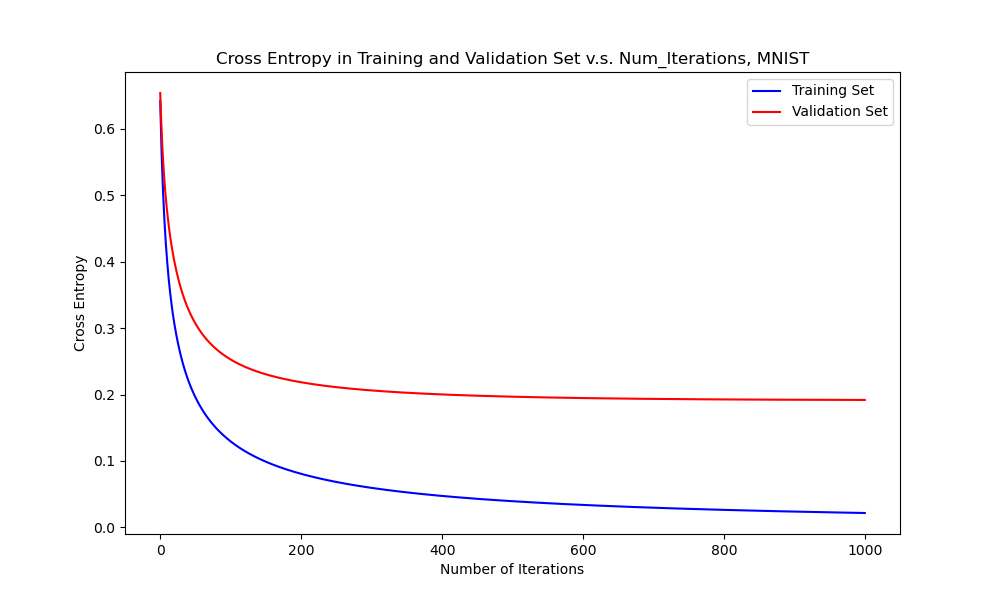
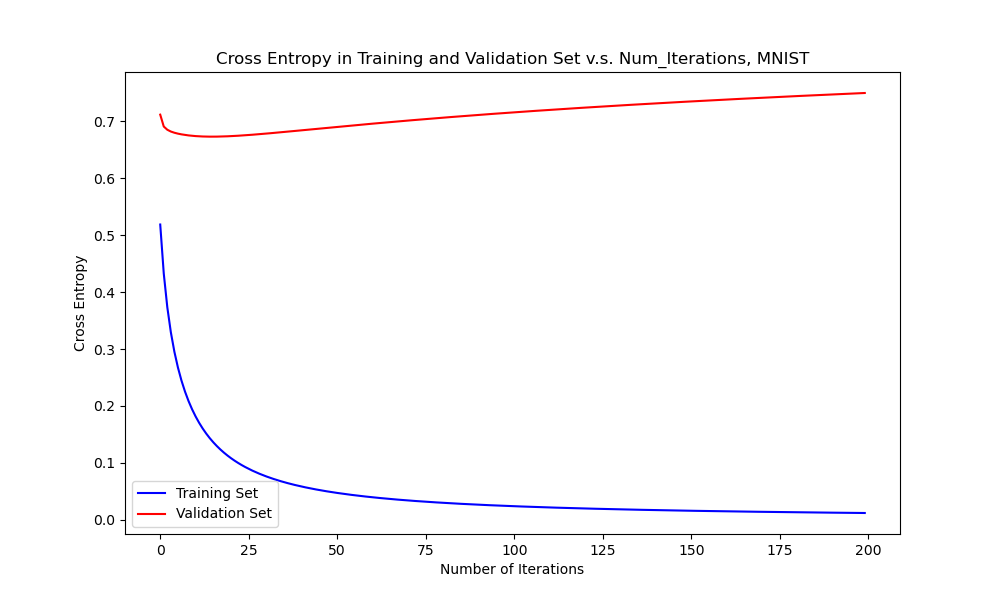
Generalization, Convergence plots. Network Confidence Definitions

diff --git a/a2/q2/run_logistic_regression.py b/a2/q2/run_logistic_regression.py
@@ -7,8 +7,8 @@ import numpy as np
 
 
 def run_logistic_regression():
-    train_inputs, train_targets = load_train()
-    # train_inputs, train_targets = load_train_small()
+    # train_inputs, train_targets = load_train()
+    train_inputs, train_targets = load_train_small()
     valid_inputs, valid_targets = load_valid()
     test_inputs, test_targets = load_test()
 
@@ -22,7 +22,7 @@ def run_logistic_regression():
     hyperparameters = {
         "learning_rate": 0.1,
         "weight_regularization": 0.,
-        "num_iterations": 1000
+        "num_iterations": 200
     }
     weights = np.zeros((M+1, 1))
     #####################################################################
@@ -77,12 +77,16 @@ def run_pen_logistic_regression():
     # Implement the function that automatically evaluates different     #
     # penalty and re-runs penalized logistic regression 5 times.        #
     #####################################################################
-    # train_inputs, train_targets = load_train()
-    train_inputs, train_targets = load_train_small()
+    train_inputs, train_targets = load_train()
+    # train_inputs, train_targets = load_train_small()
     valid_inputs, valid_targets = load_valid()
+    test_inputs, test_targets = load_test()
 
     N, M = train_inputs.shape
+    weights = np.zeros((M+1, 1))
     lambd_seq = [0, 0.001, 0.01, 0.1, 1.0]
+    # lambd_seq = [0.1] # best lambda for mnist_train
+    # lambd_seq = [0.01]  # best lambda for mnist_train_small
     stats = {}
 
     for lambd in lambd_seq:
@@ -100,6 +104,9 @@ def run_pen_logistic_regression():
         valid_ce_set = []
         train_rt_set = []
         valid_rt_set = []
+
+        test_rate = 0
+        test_ce = 0
 
         for _ in range(5):
             weights = np.zeros((M+1, 1))
@@ -141,7 +148,10 @@ def run_pen_logistic_regression():
         plt.ylabel('Cross Entropy')
         plt.savefig("Penalty" + str(lambd)+"CE_MNIST-Small.png")  # save the figure
         plt.show()
+
     print(stats)
+    # test_ce, test_rate = evaluate(test_targets, logistic_predict(weights, test_inputs))
+    # print(test_ce, test_rate)  # compute metrics after training.
 
     #####################################################################
     #                       END OF YOUR CODE                            #

diff --git a/a2/q3/nn.py b/a2/q3/nn.py
@@ -18,6 +18,7 @@ the lines in "main()".
 
 from q3.utils import load_data, load, save, display_plot
 import numpy as np
+import matplotlib.pyplot as plt
 
 
 def init_nn(num_inputs, num_hiddens, num_outputs):
@@ -242,6 +243,24 @@ def train(model, forward, backward, update, alpha, num_epochs, batch_size):
             # Update weights.
             update(model, alpha)
 
+            # Find confused images.
+            input_x = inputs_train[step * batch_size:(step + 1) * batch_size]
+            input_t = target_train[step * batch_size:(step + 1) * batch_size]
+
+            var = forward(model, input_x)
+            prediction = softmax(var["y"])
+
+            confused_imgs = []
+            for i in range(batch_size):
+                if np.argmax(prediction[i]) != np.argmax(input_t[i]):
+                    confused_imgs.append(i)
+
+            if confused_imgs:
+                confused_img = inputs_train[confused_imgs[0]]
+                plt.figure(figsize=(10, 10))
+                plt.imshow(confused_img.reshape(48, -1), cmap="gray")
+                plt.show()
+
         valid_ce, valid_acc = evaluate(
             inputs_valid, target_valid, model, forward, batch_size=batch_size)
         print(("Epoch {:3d} "
@@ -344,7 +363,7 @@ def main():
 
     # Hyper-parameters. Modify them if needed.
     num_hiddens = [16, 32]
-    alpha = 0.01
+    alpha = 0.001
     num_epochs = 1000
     batch_size = 100
 

diff --git a/a2/q3/utils.py b/a2/q3/utils.py
@@ -71,4 +71,5 @@ def display_plot(train, valid, y_label, number=0):
     plt.legend()
     plt.draw()
     plt.pause(0.0001)
-    plt.savefig('NeuralNet ' + y_label + ' vs Epoch.png')
+    plt.title('NeuralNet ' + y_label + ' vs Epoch with a=0.001 and other default')
+    plt.savefig('NeuralNet ' + y_label + ' vs Epoch with a=0.001 and other default.png')
